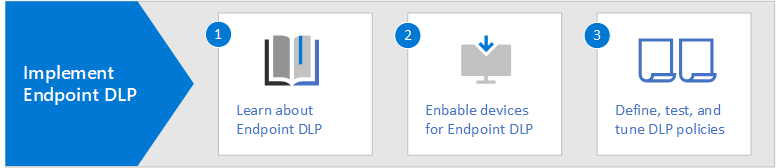
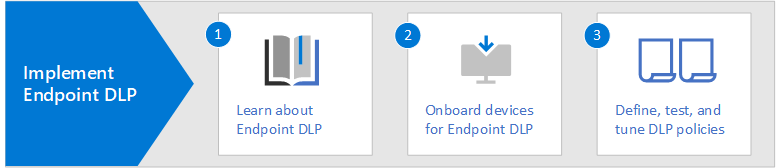
updates

Changed region(s): [[0.5231, 0.625, 0.7077, 0.6845]]

diff --git a/security-docs/zero-trust/manage-devices-with-intune-monitor-risk.md b/security-docs/zero-trust/manage-devices-with-intune-monitor-risk.md
@@ -26,27 +26,21 @@ keywords:
 
 After your organization has deployed Microsoft Defender for Endpoint, you can gain greater insights and protection of your devices by integrating Microsoft Intune with Defender for Endpoint. For mobile devices, this includes the ability to monitor device risk as a condition for access. For Windows devices, you can monitor compliance of these devices to security baselines. 
 
-Note: Deploying Microsoft Defender for Endpoint includes onboarding endpoints. For more information about onboarding devices for Microsoft 365 capabilties, see [Enrolling devices vs. onboarding devices](manage-devices-with-intune-overview.md#enrolling-devices-vs-onboarding-devices).  
+Deploying Microsoft Defender for Endpoint includes onboarding endpoints. If you used Intune to onboard endpoints (recommended), then you have already connected Microsoft Intune to Defender for Endpoint. If you used a different method to onboard endpoints to Defender for Endpoint, see [Configure Microsoft Defender for Endpoint in Intune](/mem/intune/protect/advanced-threat-protection-configure) to ensure you have set up the service-to-service connection between Intune and Microsoft Defender for Endpoint. 
+
 
 ![Defender for Endpoint and Microsoft Intune integration illustration](../media/devices/devices-defender-for-endpoint-steps.png#lightbox)
 
 In this illustration:
 - Microsoft Defender for Endpoint greatly increases the sophistication of threat protection for devices. 
 - While Microsoft Intune allows you to set App Protection Policies and manage devices (including configuration changes), Defender for Endpoint continuously monitors your devices for threats and can take automated action to remediate attacks. 
-- You can use Intune to onboard devices to Defender for Endpoint. When you do this, you are also enabling these devices to work with Microsoft 365 Compliance capabilities, including endpoint data loss prevention (DLP).
+- You can connect Microsoft Intune to Defender for Endpoint to monitor device risk and compliance to security baselines.
 
 This article includes these steps:
-- Connect Microsoft Intune to Defender for Endpoint
 - Monitor device risk
 - Monitor compliance to security baselines
 
 If Defender for Endpoint hasn’t already been set up, work with your threat protection admin to [set up the evaluation and pilot environment](../security/defender/eval-defender-endpoint-overview.md). You can work with the pilot group to try out the capabilities in this article.
-
-## Connect Microsoft Intune to Defender for Endpoint
-
-Configuring integration of Microsoft Intune with Defender for Endpoint is simple. Use this article: [Configure Microsoft Defender for Endpoint in Intune](/mem/intune/protect/advanced-threat-protection-configure). 
-
-![Connect Intune to Microsoft Defender for Endpoint](../media/devices/connect-intune-to-microsoft-defender.png#lightbox)
 
 ## Monitor device risk as a condition for access
 
@@ -79,7 +73,7 @@ To deploy security baselines and monitor compliance to these settings, use the s
 |2     |  Deploy Windows security baseline settings for Intune. You might have already accomplished this if you followed the guidance in [Step 5. Deploy configuration profiles](manage-devices-with-intune-configuration-profiles.md).        |
 |3    |  Deploy Defender for Endpoint baseline settings for Intune. See [Manage security baseline profiles in Microsoft Intune](/mem/intune/protect/security-baselines-configure) to create the profile and choose the baseline version.<br><br>You can also follow the instructions here: [Review and assign the Microsoft Defender for Endpoint security baseline](../security/defender-endpoint/configure-machines-security-baseline.md#review-and-assign-the-microsoft-defender-for-endpoint-security-baseline).     |
 |4     | In Defender for Endpoint, review the [Security baseline card on device configuration management](../security/defender-endpoint/configure-machines.md).          |
-| | |
+
 
 ## Next steps
 Go to [Step 7. Implement DLP with information protection capabilities on endpoints](manage-devices-with-intune-dlp-mip.md).

diff --git a/security-docs/zero-trust/manage-devices-with-intune-dlp-mip.md b/security-docs/zero-trust/manage-devices-with-intune-dlp-mip.md
@@ -26,7 +26,7 @@ description: Implement Endpoint DLP by working with your information protection 
 # Step 7. Implement data loss prevention (DLP) with information protection capabilities
 
 
-If your organization has already put the time into understanding your data, developing a data sensitivity schema, and applying the schema, you might be ready to extend elements of this schema to endpoints by using data loss prevention (DLP) policies. 
+If your organization uses Microsoft 365 Information Protection and has put the time into understanding your data, developing a data sensitivity schema, and applying the schema, you might be ready to extend elements of this schema to endpoints by using data loss prevention (DLP) policies. 
 
 Microsoft Endpoint data loss prevention (Endpoint DLP) currently applies to:
 - Windows 10, Windows 11
@@ -42,8 +42,6 @@ If your information protection and governance team is ready to extend DLP polici
 
 ![Endpoint DLP steps for the device admin](../media/devices/endpoint-dlp-steps.png#lightbox)
 
-If you completed [Step 2. Enroll devices to Intune](manage-devices-with-intune-enroll.md) and [Step 6. Enroll devices into Defender for Endpoint to monitor device risk and compliance to security baselines](manage-devices-with-intune-monitor-risk.md), your devices are already enabled for Endpoint DLP. 
-
 
 Use the following steps to work with your information protection team.
 
@@ -51,6 +49,5 @@ Use the following steps to work with your information protection team.
 |Step  |Description  |
 |---------|---------|
 |1     |  [Learn about Microsoft 365 Endpoint data loss prevention](../compliance/endpoint-dlp-learn-about.md).        |
-|2     | Enable devices for Endpoint DLP. If you onboarded devices to Microsoft Defender for Endpoint, your devices are already enabled for Endpoint DLP. If your devices are not onboarded to Defender for Endpoint, see [Get started with Endpoint data loss prevention](../compliance/endpoint-dlp-getting-started.md) for instructions.|
+|2     | Onboard devices for Endpoint DLP. If you onboarded devices to Microsoft Defender for Endpoint, your devices are already onboarded for Microsoft 365 Compliance, including Endpoint DLP. If your devices are not onboarded to Defender for Endpoint, see [Get started with Endpoint data loss prevention](../compliance/endpoint-dlp-getting-started.md) for instructions. For more information about how onboarding works, see [Enrolling devices vs. onboarding devices](manage-devices-with-intune-overview.md#enrolling-devices-vs-onboarding-devices)|
 |3     |   Work with your information protection and governance team to define, test, and tune policies. This includes monitoring the results. See these resources:<br>- [Using Endpoint data loss prevention](../compliance/endpoint-dlp-using.md)<br>- [View the reports for data loss prevention](../compliance/view-the-dlp-reports.md)      |
-|     |         |
